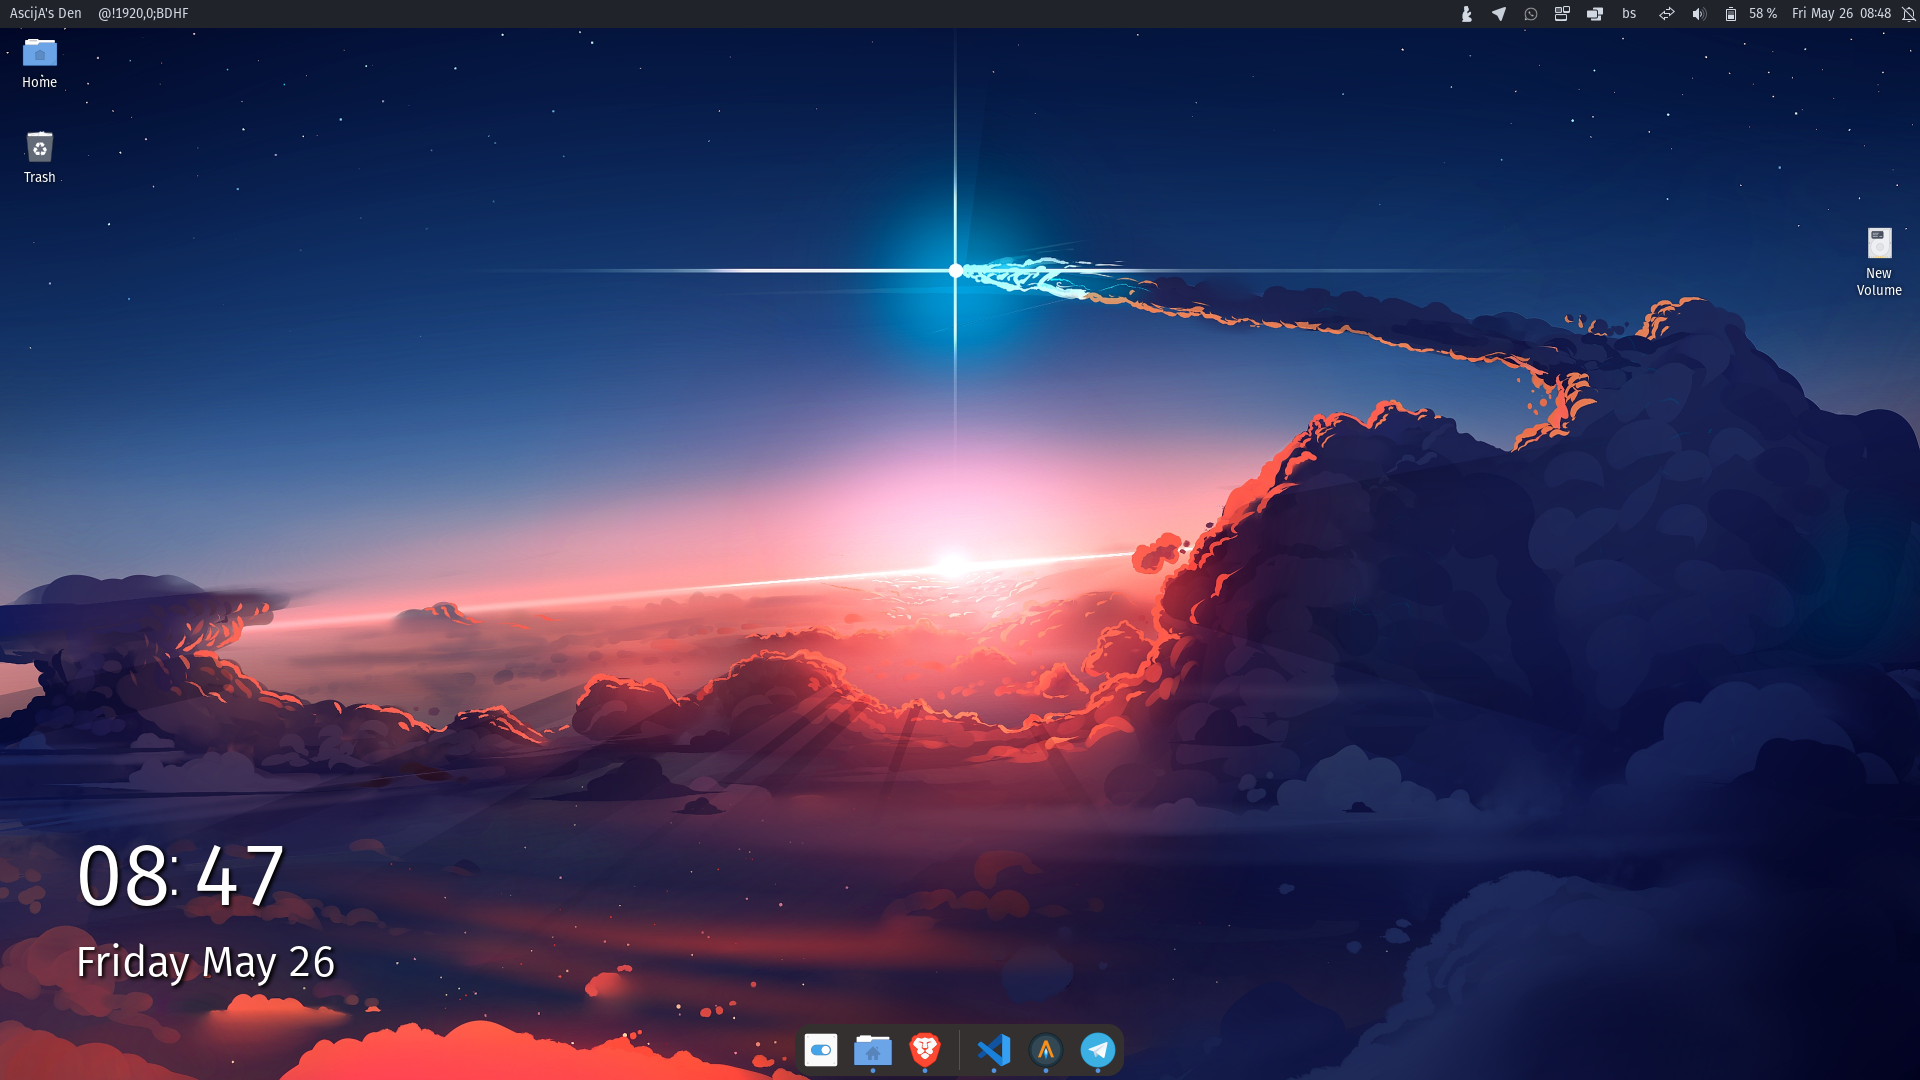
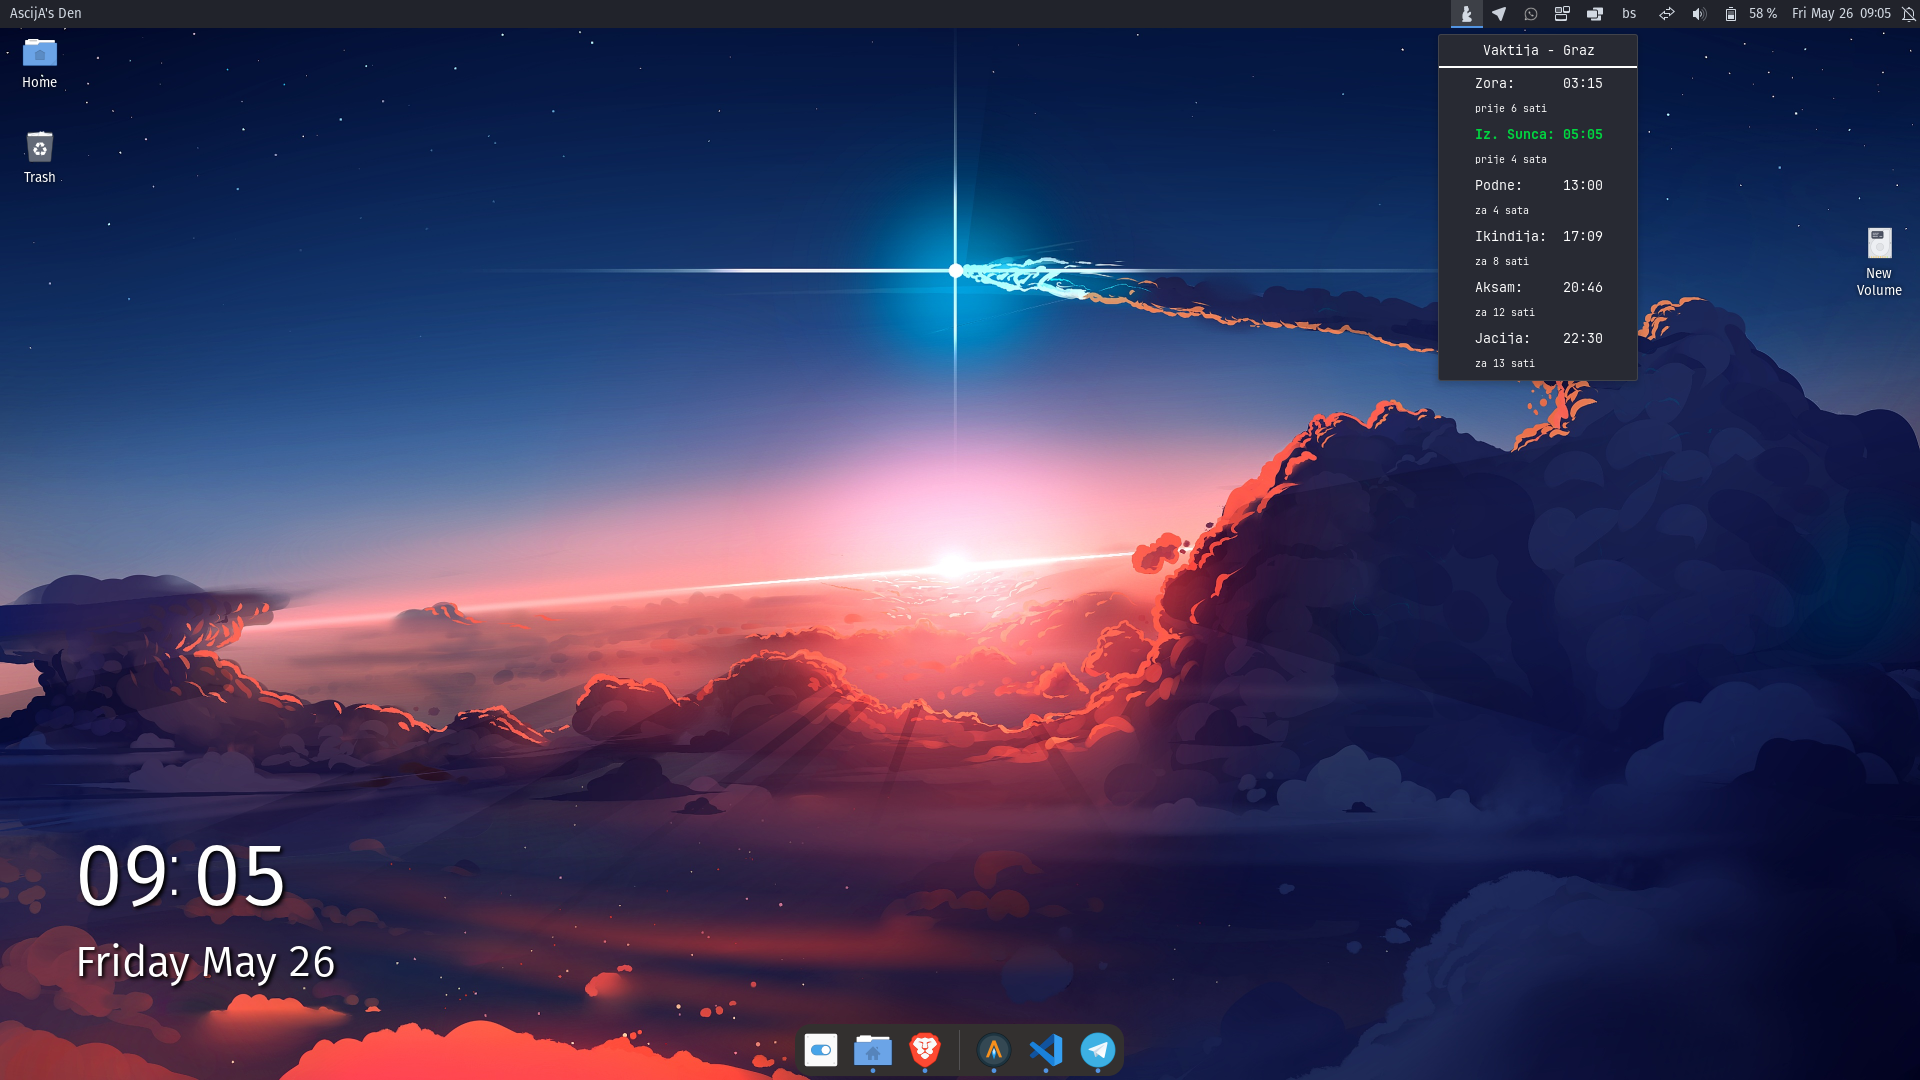
Readme update with image examples

diff --git a/README.md b/README.md
@@ -22,9 +22,10 @@ This program is licensed under the GNU General Public License version 2.0 or lat
 
 
 After installing and enabling the extension, a new icon ![Vaktija icon](assets/vaktija-symbolic.png) will appear in the panel. Clicking on the icon will open a menu displaying the daily prayer times.
+![Vaktija Panel Menu](assets/widget.png)  
 
-![Vaktija Panel Menu](assets/widget.png)
 ![My desktop example](assets/whole.png)
+
 ## Credits
 
 This extension uses the following libraries:
@@ -50,7 +51,7 @@ Following improvements and features are planned to be implamented in future:
   - [ ] 12/24 time formats, currently only 24 hour format is supported 
 - [x] Highlight current prayer time and show remaining time until next Prayer
 - [ ] Add Desktop Background Widget
-- [ ] Add Notifications
+- [ ] Add Notifications X minutes before the prayer
 
 ## Acknowledgements
 
